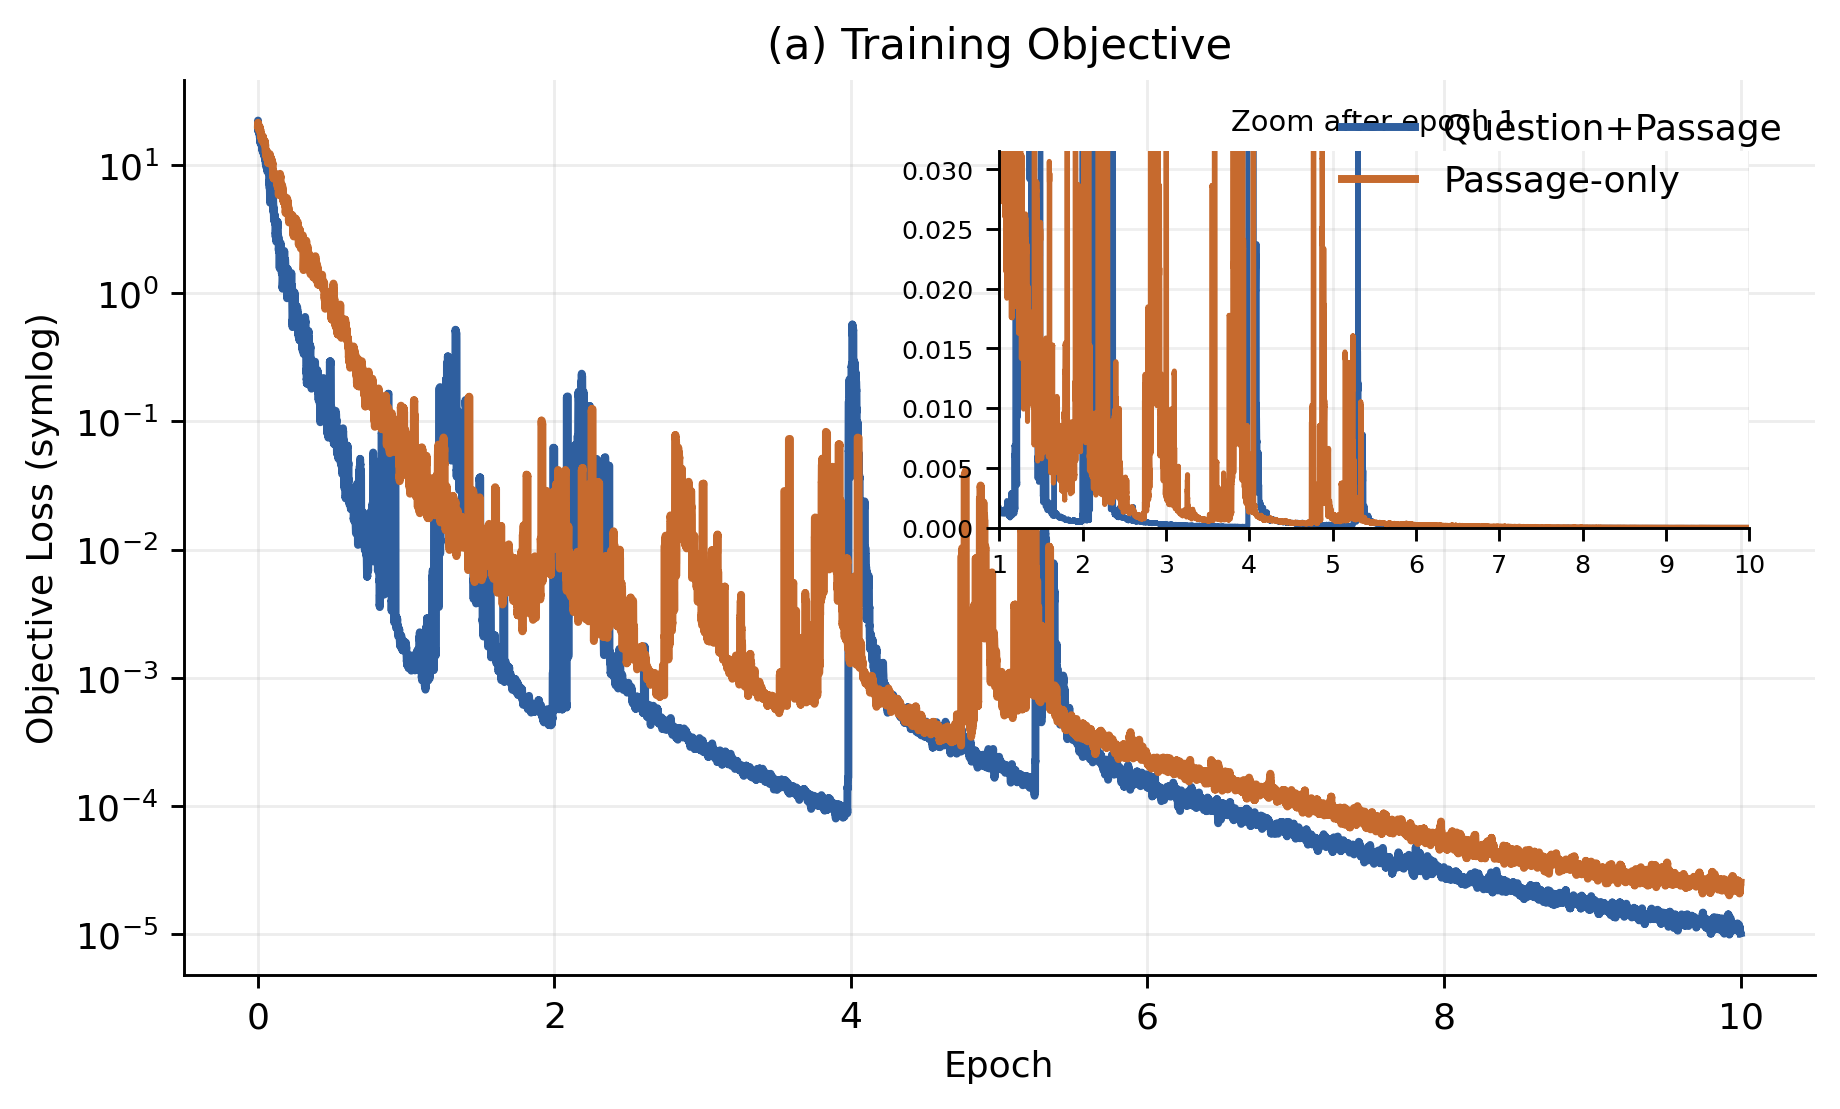
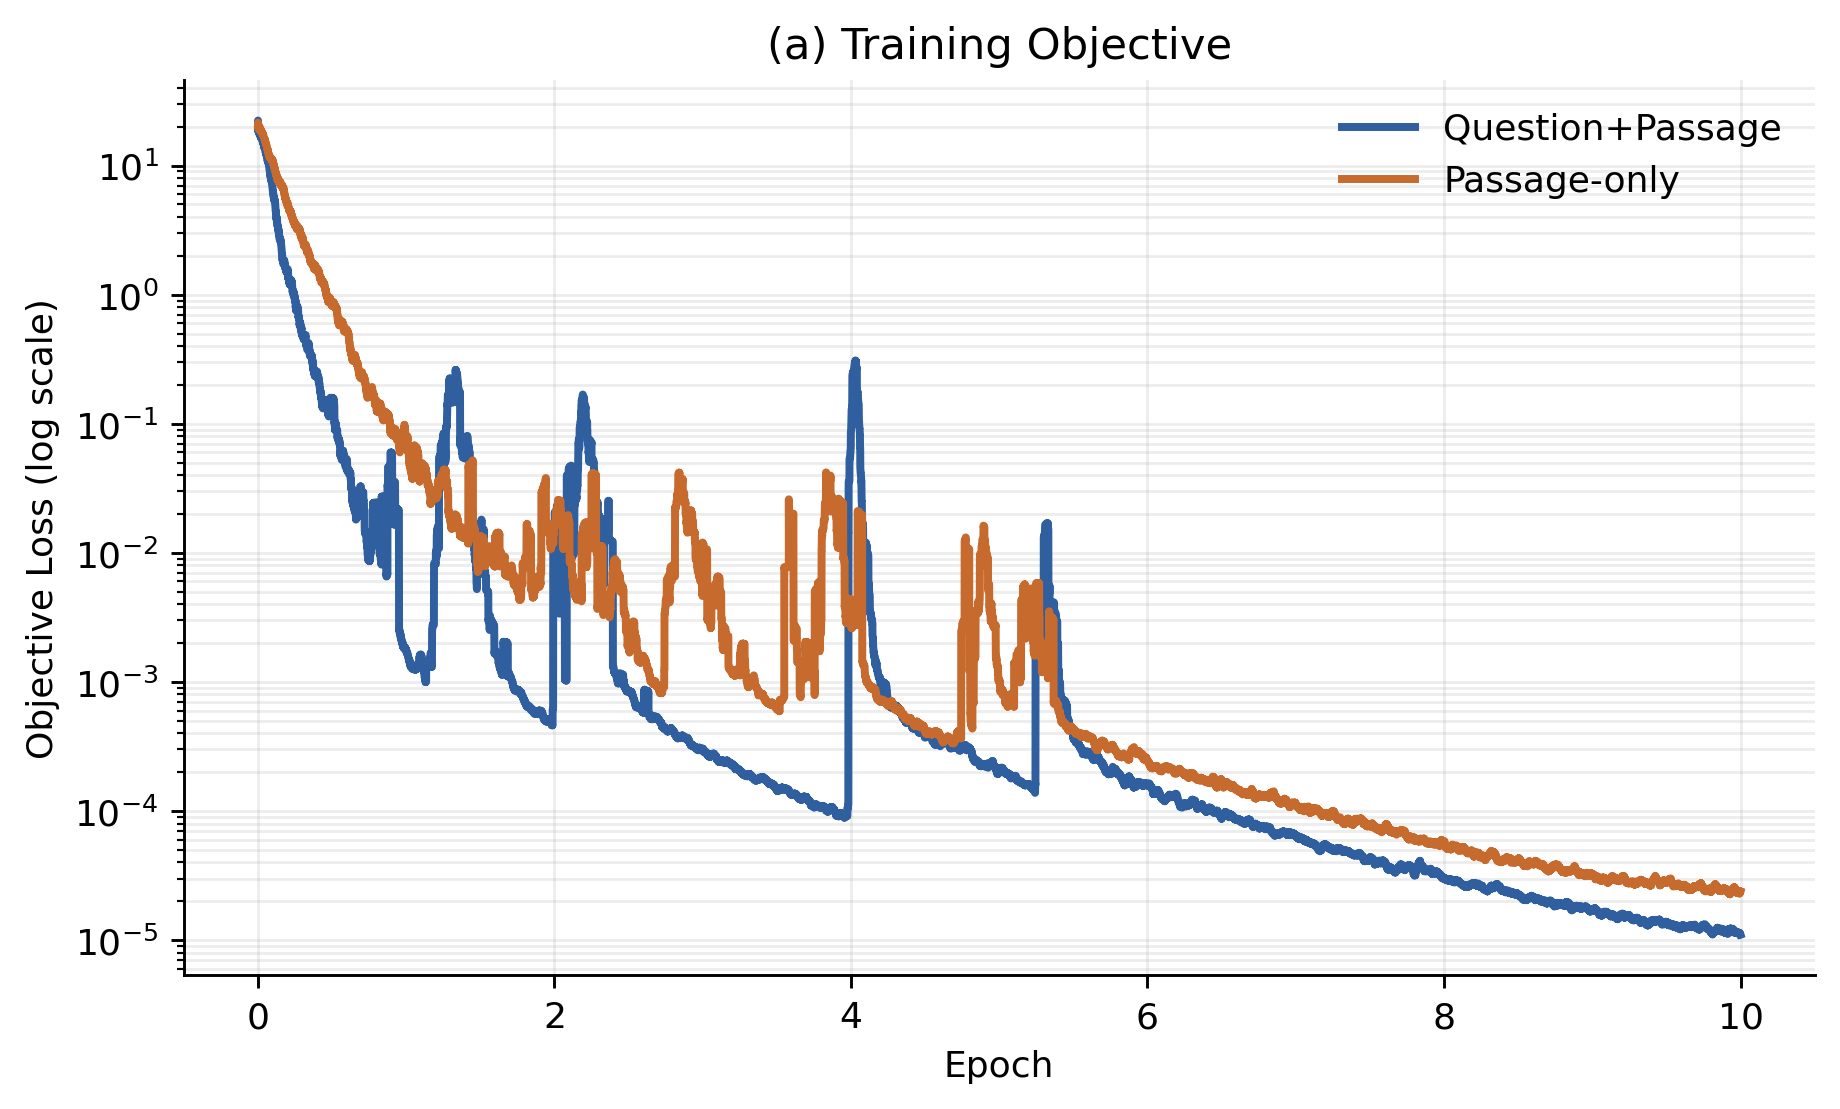
t

diff --git a/llm_server/PRAG/plot_epoch_performance.py b/llm_server/PRAG/plot_epoch_performance.py
@@ -109,7 +109,7 @@ def moving_average(values: list[float], window: int) -> list[float]:
     return smoothed
 
 
-def read_loss_curve(path: str | Path, *, smooth: int = 100) -> tuple[list[float], list[float]]:
+def read_loss_curve(path: str | Path, *, smooth: int = 200) -> tuple[list[float], list[float]]:
     log_path = Path(path)
     if not str(path) or not log_path.exists():
         return [], []
@@ -164,6 +164,7 @@ def plot_objective_axis(ax, *, qp_log: str, ponly_log: str, colors: dict[str, st
     ax.set_ylabel("Objective Loss (log scale)")
     if qp_loss or ponly_loss:
         ax.set_yscale("log")
+        ax.set_ylim(1e-4, 30)
     style_axis(ax)
     ax.grid(True, which="both", alpha=0.22)
     if has_lines:
